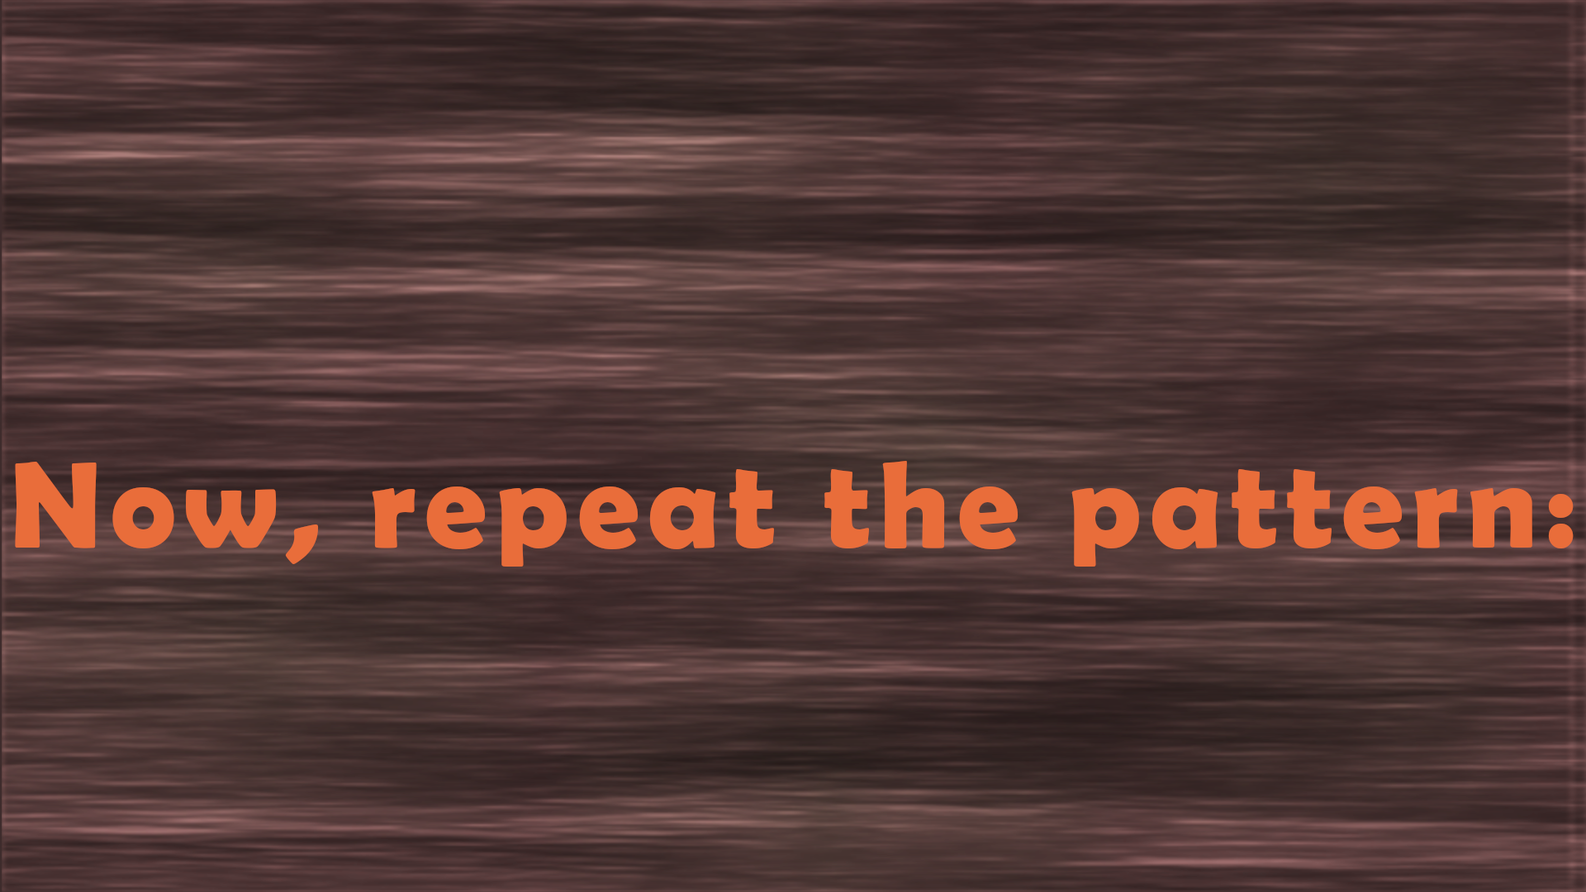
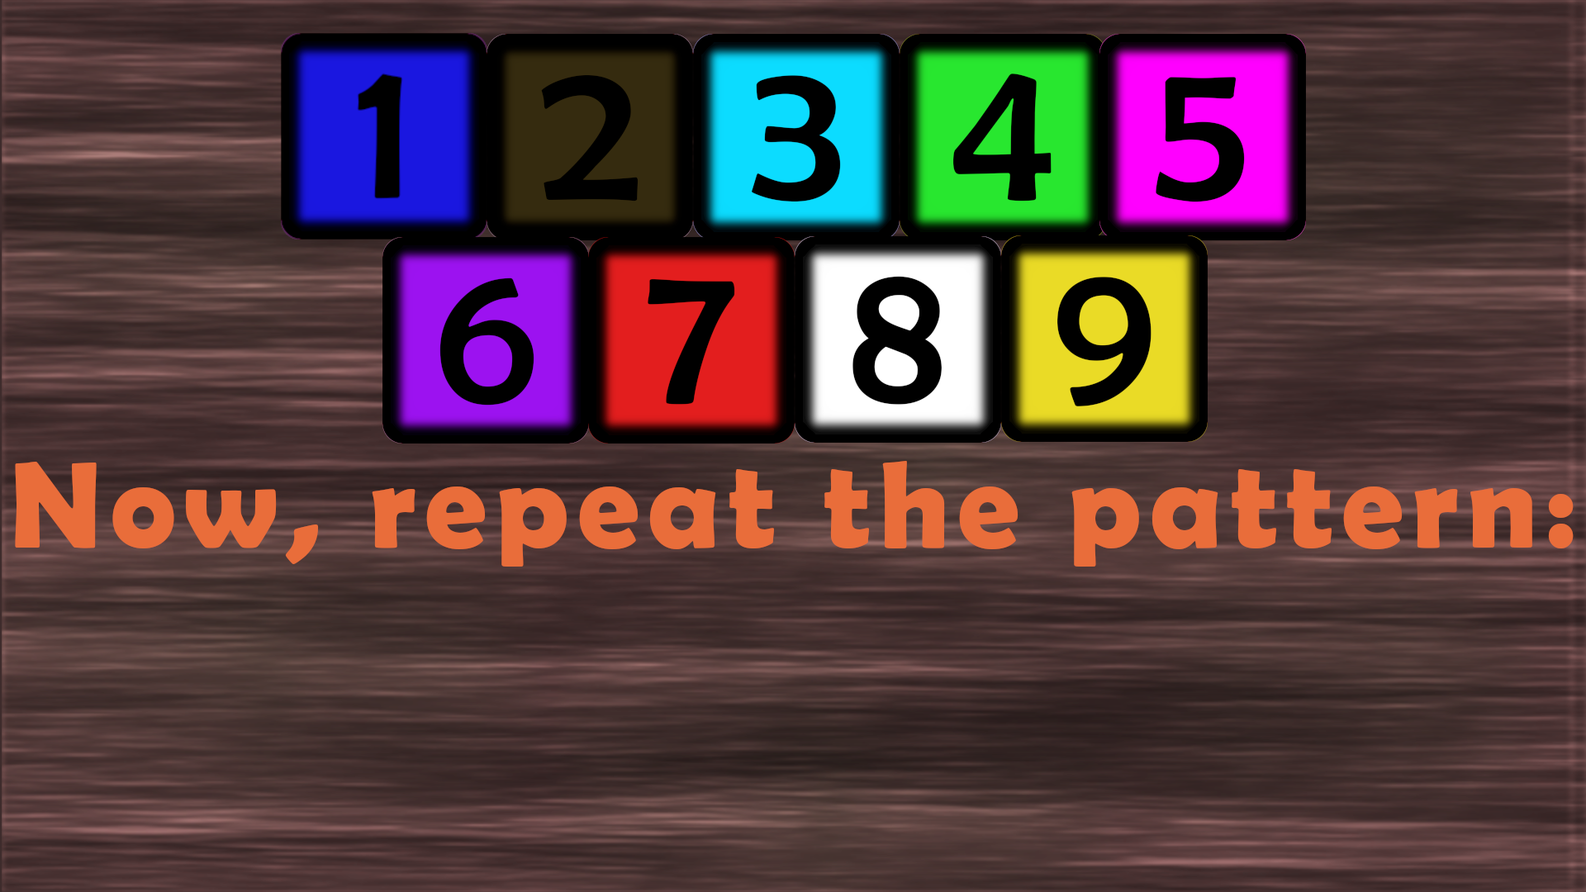
Wprowadzenie instrukcji oraz poprawa wyświetlania Math Mini-Game i Memory Mini-Game

Changed region(s): [[0.1562, 0.0306, 0.8438, 0.5194]]

diff --git a/core/src/com/thechinczyk/game/screens/MiniGame.java b/core/src/com/thechinczyk/game/screens/MiniGame.java
@@ -45,9 +45,9 @@ public class MiniGame {
         cardSprite = spriteInit(cardTexture, 435, -115, 1024,1024);
     }
 
-    public static void displayInstructionHTP(String instruction, DayParkMap map) {
+    public static void displayInstructionHTP(String instruction, DayParkMap map, float scale) {
         cardSprite.draw(spriteBatch);
-        map.gameTextures.font.getData().setScale(0.25f, 0.25f);
+        map.gameTextures.font.getData().setScale(scale, scale);
         map.gameTextures.font.draw(spriteBatch, instruction, 660, 710, 600, Align.center, true);
         map.gameTextures.font.getData().setScale(0.3f, 0.3f);
     }
@@ -129,7 +129,7 @@ public class MiniGame {
                         MiniGame.displayInstructionHTP("In this mini-game, you control rocket. You move horizontal with " +
                                 "LEFT and RIGHT ARROW. Your target is to make moving UFOs, which " +
                                 "are your enemies, disappear, by shooting them with bullets. Use ARROW UP " +
-                                "to shoot. You have 10 seconds to eliminate as many enemies you can.", this.map);
+                                "to shoot. You have 10 seconds to eliminate as many enemies you can.", this.map, 0.25f);
                         this.instructionDisplay = true;
                         if (Gdx.input.isKeyJustPressed(Input.Keys.BACKSPACE)) {
                             this.instructionDisplay = false;
@@ -457,6 +457,7 @@ public class MiniGame {
         private boolean isStarted;
         private boolean isLoaded;
         private boolean isEnding;
+        private boolean instructionDisplay;
 
         MathMiniGameMenu(SpriteBatch batch, DayParkMap map) {
             this.spriteBatch = batch;
@@ -472,12 +473,12 @@ public class MiniGame {
             this.menuTexture = new Texture("MathMiniGame/MainMenuBackground.png");
 
             buttonStartHovered = new Texture("MathMiniGame/ButtonSTARTon.png");
-            buttonStart = new GameObject(buttonStartHovered, Gdx.graphics.getWidth() / 4f, Gdx.graphics.getHeight() / 4f + (600 / (1920 / (Gdx.graphics.getWidth() / 2f))), 400 / (1920 / (Gdx.graphics.getWidth() / 2f)), 200 / (1920 / (Gdx.graphics.getWidth() / 2f)));
-            buttonStartHoveredSprite = spriteInit(this.buttonStartHovered, Gdx.graphics.getWidth() / 4f + (760 / (1920 / (Gdx.graphics.getWidth() / 2f))), Gdx.graphics.getHeight() / 4f + +(289 / (1920 / (Gdx.graphics.getWidth() / 2f))), 400 / (1920 / (Gdx.graphics.getWidth() / 2f)), 200 / (1920 / (Gdx.graphics.getWidth() / 2f)));
+            buttonStart = new GameObject(buttonStartHovered, 860, 412, 200, 100);
+            buttonStartHoveredSprite = spriteInit(this.buttonStartHovered, 860, 414, 200, 100);
 
             buttonHTPHovered = new Texture("MathMiniGame/ButtonHTPon.png");
-            buttonHTP = new GameObject(buttonHTPHovered, Gdx.graphics.getWidth() / 4f, Gdx.graphics.getHeight() / 4f + (800 / (1920 / (Gdx.graphics.getWidth() / 2f))), 400 / (1920 / (Gdx.graphics.getWidth() / 2f)), 200 / (1920 / (Gdx.graphics.getWidth() / 2f)));
-            buttonHTPHoveredSprite = spriteInit(this.buttonHTPHovered, Gdx.graphics.getWidth() / 4f + (760 / (1920 / (Gdx.graphics.getWidth() / 2f))), Gdx.graphics.getHeight() / 4f + (75 / (1920 / (Gdx.graphics.getWidth() / 2f))), 400 / (1920 / (Gdx.graphics.getWidth() / 2f)), 200 / (1920 / (Gdx.graphics.getWidth() / 2f)));
+            buttonHTP = new GameObject(buttonHTPHovered, 860, 307, 200, 100);
+            buttonHTPHoveredSprite = spriteInit(this.buttonHTPHovered, 860, 307, 200, 100);
         }
 
         public void Update() {
@@ -497,8 +498,19 @@ public class MiniGame {
 
                 if (this.isButtonHTPHovered) {
                     buttonHTPHoveredSprite.draw(spriteBatch);
-                    //if (Gdx.input.isKeyJustPressed(Input.Keys.G))
-                    //Wprowadzenie Instrukcji do gry
+                    if (Gdx.input.isKeyJustPressed(Input.Keys.G) || this.instructionDisplay) {
+                        MiniGame.displayInstructionHTP("In this mini-game, you get random mathematical operation. You " +
+                                "have to type exact result, unless you get division - " +
+                                "it is integer division (e.g 5/2 = 2). " +
+                                "You have 15 seconds to solve it, but if you finish earlier, " +
+                                "you can use ENTER to end mini-game. If the answer is correct and " +
+                                "you finished under 10 seconds, your reward will be better.", this.map, 0.25f);
+                        this.instructionDisplay = true;
+                        if (Gdx.input.isKeyJustPressed(Input.Keys.BACKSPACE)) {
+                            this.instructionDisplay = false;
+                            this.isButtonHTPHovered = false;
+                        }
+                    }
 
                 } else if (this.isButtonStartHovered) {
                     buttonStartHoveredSprite.draw(spriteBatch);
@@ -525,7 +537,7 @@ public class MiniGame {
 
         public void Draw() {
             if (!isEnding) {
-                spriteBatch.draw(this.menuTexture, Gdx.graphics.getWidth() / 4f, Gdx.graphics.getHeight() / 4f, Gdx.graphics.getWidth() / 2f, 1080 / (1920 / (Gdx.graphics.getWidth() / 2f)));
+                spriteBatch.draw(this.menuTexture, 480, 270, 960, 540);
                 Update();
             }
             else
@@ -565,14 +577,14 @@ public class MiniGame {
             this.timer = 0;
             this.timeSeconds = 1;
             this.numberCounter = 0;
-            this.operation = random.nextInt(3);
+            this.operation = random.nextInt(4);
             this.number1 = 100 + random.nextInt(1000);
             if (this.operation == 0) {
                 this.number2 = 100 + random.nextInt(1000);
                 this.expectedResult = this.number1 + this.number2;
             }
             else if (this.operation == 1) {
-                this.number2 = random.nextInt(this.number1);
+                this.number2 = 1 + random.nextInt(this.number1-2);
                 this.expectedResult = this.number1 - this.number2;
             }
             else if (this.operation == 2) {
@@ -615,25 +627,25 @@ public class MiniGame {
 
         public void texturesToSprites() {
             if (this.operation == 0)
-                this.signSprite = spriteInit(this.addSign, Gdx.graphics.getWidth() / 2f - SIZE / 2f, Gdx.graphics.getHeight() / 2f + 100 - SIZE / 2f, SIZE, SIZE);
+                this.signSprite = spriteInit(this.addSign, 960 - SIZE / 2f, 640 - SIZE / 2f, SIZE, SIZE);
             else if (this.operation == 1)
-                this.signSprite = spriteInit(this.subSign, Gdx.graphics.getWidth() / 2f - SIZE / 2f, Gdx.graphics.getHeight() / 2f + 100 - SIZE / 2f, SIZE, SIZE);
+                this.signSprite = spriteInit(this.subSign, 960 - SIZE / 2f, 640 - SIZE / 2f, SIZE, SIZE);
             else if (this.operation == 2)
-                this.signSprite = spriteInit(this.mulSign, Gdx.graphics.getWidth() / 2f - SIZE / 2f, Gdx.graphics.getHeight() / 2f + 100 - SIZE / 2f, SIZE, SIZE);
+                this.signSprite = spriteInit(this.mulSign, 960 - SIZE / 2f, 640 - SIZE / 2f, SIZE, SIZE);
             else
-                this.signSprite = spriteInit(this.divSign, Gdx.graphics.getWidth() / 2f - SIZE / 2f, Gdx.graphics.getHeight() / 2f + 100 - SIZE / 2f, SIZE, SIZE);
+                this.signSprite = spriteInit(this.divSign, 960 - SIZE / 2f, 640 - SIZE / 2f, SIZE, SIZE);
 
-            this.eqSignSprite = spriteInit(this.eqSign, Gdx.graphics.getWidth() / 2f - SIZE / 2f, Gdx.graphics.getHeight() / 2f - SIZE / 2f, SIZE, SIZE);
+            this.eqSignSprite = spriteInit(this.eqSign, 960 - SIZE / 2f, 540 - SIZE / 2f, SIZE, SIZE);
 
             for (int i = 0; i < 4; i++) {
-                this.number1Sprite[i] = spriteInit(this.numbers[number1Array[i]], Gdx.graphics.getWidth() / 2f - (4 - i) * (NUMBER_SIZE / 2f + 10) - 50, Gdx.graphics.getHeight() / 2f - SIZE / 2f + 160, NUMBER_SIZE / 2f, NUMBER_SIZE);
-                this.number2Sprite[i] = spriteInit(this.numbers[number2Array[i]], Gdx.graphics.getWidth() / 2f + i * (NUMBER_SIZE / 2f + 10) + 50, Gdx.graphics.getHeight() / 2f - SIZE / 2f + 160, NUMBER_SIZE / 2f, NUMBER_SIZE);
+                this.number1Sprite[i] = spriteInit(this.numbers[number1Array[i]], 960 - (4 - i) * (NUMBER_SIZE / 2f + 10) - 50, 700 - SIZE / 2f, NUMBER_SIZE / 2f, NUMBER_SIZE);
+                this.number2Sprite[i] = spriteInit(this.numbers[number2Array[i]], 960 + i * (NUMBER_SIZE / 2f + 10) + 50, 700 - SIZE / 2f, NUMBER_SIZE / 2f, NUMBER_SIZE);
             }
         }
 
         public void refreshResultSprites() {
             for (int i = 0; i<this.numberCounter; i++) {
-                this.resultSprite[i] = spriteInit(this.numbers[(this.playerResult/(i==0 ? 1 : (int)Math.pow(10,i)))%10], Gdx.graphics.getWidth() / 2f + (2 - i) * (NUMBER_SIZE / 2f + 10) - NUMBER_SIZE/4f, Gdx.graphics.getHeight() / 2f - 160, NUMBER_SIZE / 2f, NUMBER_SIZE);
+                this.resultSprite[i] = spriteInit(this.numbers[(this.playerResult/(i==0 ? 1 : (int)Math.pow(10,i)))%10], 960 + (2 - i) * (NUMBER_SIZE / 2f + 10) - NUMBER_SIZE/4f, 380, NUMBER_SIZE / 2f, NUMBER_SIZE);
             }
         }
 
@@ -647,14 +659,16 @@ public class MiniGame {
         }
 
         public void Draw() {
-            spriteBatch.draw(this.gameTexture, Gdx.graphics.getWidth() / 4f, Gdx.graphics.getHeight() / 4f, Gdx.graphics.getWidth() / 2f, 1080 / (1920 / (Gdx.graphics.getWidth() / 2f)));
+            spriteBatch.draw(this.gameTexture, 480, 270, 960, 540);
             this.Update(Gdx.graphics.getDeltaTime());
-            this.font.draw(this.spriteBatch, Integer.toString(this.timeSeconds), 3*Gdx.graphics.getWidth()/4f - 40, 3*Gdx.graphics.getHeight()/4f - 20);
+            this.font.draw(this.spriteBatch, Integer.toString(this.timeSeconds), 1400, 790);
             this.eqSignSprite.draw(this.spriteBatch);
             this.signSprite.draw(this.spriteBatch);
             for (int i = 0; i<4; i++) {
-                this.number1Sprite[i].draw(this.spriteBatch);
-                this.number2Sprite[i].draw(this.spriteBatch);
+                if (this.number1/Math.pow(10, 3-i) >= 1)
+                    this.number1Sprite[i].draw(this.spriteBatch);
+                if (this.number2/Math.pow(10, 3-i) >= 1)
+                    this.number2Sprite[i].draw(this.spriteBatch);
             }
             for (int i = 0; i<this.numberCounter; i++)
                 this.resultSprite[i].draw(this.spriteBatch);
@@ -667,7 +681,7 @@ public class MiniGame {
                 timeSeconds ++;
             }
 
-            System.out.println(this.playerResult);
+            System.out.println(this.expectedResult + " " + this.playerResult + " " + this.number2/Math.pow(10, 3));
             if (numberCounter < 5) {
                 if ((Gdx.input.isKeyJustPressed(Input.Keys.NUM_1)) || (Gdx.input.isKeyJustPressed(Input.Keys.NUMPAD_1))) {
                     this.playerResult *= 10;
@@ -724,8 +738,7 @@ public class MiniGame {
             }
             refreshResultSprites();
 
-            if (/*this.timeSeconds == 11 */ (Gdx.input.isKeyJustPressed(Input.Keys.ENTER)) || (Gdx.input.isKeyJustPressed(Input.Keys.NUMPAD_ENTER))) {
-                //reset wszystkiego w grze, menu glownym i na planszy
+            if (this.timeSeconds == 16  || (Gdx.input.isKeyJustPressed(Input.Keys.ENTER)) || (Gdx.input.isKeyJustPressed(Input.Keys.NUMPAD_ENTER))) {
                 this.menuMMG.isStarted = false;
                 this.menuMMG.endMenu = new MathMiniGameEndMenu(this.spriteBatch, this.expectedResult == this.playerResult, this.timeSeconds,  this.menuMMG ,this);
                 this.menuMMG.isEnding = true;
@@ -734,7 +747,6 @@ public class MiniGame {
             if ((Gdx.input.isKeyJustPressed(Input.Keys.X))) {
                 menuMMG.resetAfterQuit();
             }
-
         }
     }
 
@@ -768,16 +780,12 @@ public class MiniGame {
                 this.menuTexture = new Texture("MathMiniGame/BackgroundEndGameWrong.png");
 
             buttonEndHovered = new Texture("MathMiniGame/ButtonEXIT_on.png");
-            buttonEnd = new GameObject(buttonEndHovered, Gdx.graphics.getWidth()/4f, Gdx.graphics.getHeight()/4f + (850 / (1920/(Gdx.graphics.getWidth()/2f))), 400 / (1920/(Gdx.graphics.getWidth()/2f)), 200 / (1920/(Gdx.graphics.getWidth()/2f)));
-            buttonEndHoveredSprite = spriteInit(this.buttonEndHovered, Gdx.graphics.getWidth()/4f + (760 / (1920/(Gdx.graphics.getWidth()/2f))), Gdx.graphics.getHeight()/4f + (30 / (1920/(Gdx.graphics.getWidth()/2f))) , 400 / (1920/(Gdx.graphics.getWidth()/2f)), 200 / (1920/(Gdx.graphics.getWidth()/2f)));
+            buttonEnd = new GameObject(buttonEndHovered, 860, 308, 200, 100);
+            buttonEndHoveredSprite = spriteInit(this.buttonEndHovered, 860, 308 , 200, 100);
         }
 
         public void Update() {
-            spriteBatch.draw(this.menuTexture, Gdx.graphics.getWidth()/4f, Gdx.graphics.getHeight()/4f, Gdx.graphics.getWidth()/2f, 1080 / (1920/(Gdx.graphics.getWidth()/2f)));
-            /*if (this.result < 10)
-                this.game.font.draw(this.spriteBatch, Integer.toString(this.result), Gdx.graphics.getWidth()/2f - this.game.rocket.SCALE*20, Gdx.graphics.getHeight()/4f + this.game.rocket.SCALE*180);
-            else
-                this.game.font.draw(this.spriteBatch, Integer.toString(this.result), Gdx.graphics.getWidth()/2f - this.game.rocket.SCALE*30, Gdx.graphics.getHeight()/4f + this.game.rocket.SCALE*180); */
+            spriteBatch.draw(this.menuTexture, 480, 270, 960, 540);
 
             if (Gdx.input.isKeyJustPressed(Input.Keys.X) && !this.isButtonEndHovered) {
                 this.isButtonEndHovered = true;
@@ -820,6 +828,7 @@ public class MiniGame {
         private boolean isStarted;
         private boolean isLoaded;
         private boolean isEnding;
+        private boolean instructionDisplay;
 
         MemoryMiniGameMenu(SpriteBatch batch, DayParkMap map) {
             this.spriteBatch = batch;
@@ -835,12 +844,12 @@ public class MiniGame {
             this.menuTexture = new Texture("MemoryMiniGame/MainMenuBackground.png");
 
             buttonStartHovered = new Texture("MemoryMiniGame/ButtonSTARTon.png");
-            buttonStart = new GameObject(buttonStartHovered, Gdx.graphics.getWidth() / 4f, Gdx.graphics.getHeight() / 4f + (600 / (1920 / (Gdx.graphics.getWidth() / 2f))), 400 / (1920 / (Gdx.graphics.getWidth() / 2f)), 200 / (1920 / (Gdx.graphics.getWidth() / 2f)));
-            buttonStartHoveredSprite = spriteInit(this.buttonStartHovered, Gdx.graphics.getWidth() / 4f + (760 / (1920 / (Gdx.graphics.getWidth() / 2f))), Gdx.graphics.getHeight() / 4f + (257 / (1920 / (Gdx.graphics.getWidth() / 2f))), 400 / (1920 / (Gdx.graphics.getWidth() / 2f)), 200 / (1920 / (Gdx.graphics.getWidth() / 2f)));
+            buttonStart = new GameObject(buttonStartHovered, 860, 398, 200, 100);
+            buttonStartHoveredSprite = spriteInit(this.buttonStartHovered, 860, 398, 200, 100);
 
             buttonHTPHovered = new Texture("MemoryMiniGame/ButtonHTPon.png");
-            buttonHTP = new GameObject(buttonHTPHovered, Gdx.graphics.getWidth() / 4f, Gdx.graphics.getHeight() / 4f + (800 / (1920 / (Gdx.graphics.getWidth() / 2f))), 400 / (1920 / (Gdx.graphics.getWidth() / 2f)), 200 / (1920 / (Gdx.graphics.getWidth() / 2f)));
-            buttonHTPHoveredSprite = spriteInit(this.buttonHTPHovered, Gdx.graphics.getWidth() / 4f + (760 / (1920 / (Gdx.graphics.getWidth() / 2f))), Gdx.graphics.getHeight() / 4f + (40 / (1920 / (Gdx.graphics.getWidth() / 2f))), 400 / (1920 / (Gdx.graphics.getWidth() / 2f)), 200 / (1920 / (Gdx.graphics.getWidth() / 2f)));
+            buttonHTP = new GameObject(buttonHTPHovered, 860, 290, 200, 100);
+            buttonHTPHoveredSprite = spriteInit(this.buttonHTPHovered, 860, 290, 200, 100);
         }
 
         public void Update() {
@@ -860,8 +869,18 @@ public class MiniGame {
 
                 if (this.isButtonHTPHovered) {
                     buttonHTPHoveredSprite.draw(spriteBatch);
-                    //if (Gdx.input.isKeyJustPressed(Input.Keys.G))
-                    //Wprowadzenie Instrukcji do gry
+                    if (Gdx.input.isKeyJustPressed(Input.Keys.G) || this.instructionDisplay) {
+                        MiniGame.displayInstructionHTP("In this mini-game, you will be shown path of four colors. You have " +
+                                "seconds to remember it, and then, you have 10 seconds to repeat " +
+                                "this path by using NUMBER KEYS and BACKSPACE. If the answer is " +
+                                "correct and you finished in under 7 seconds, " +
+                                "your reward will be better.", this.map, 0.25f);
+                        this.instructionDisplay = true;
+                        if (Gdx.input.isKeyJustPressed(Input.Keys.BACKSPACE)) {
+                            this.instructionDisplay = false;
+                            this.isButtonHTPHovered = false;
+                        }
+                    }
 
                 } else if (this.isButtonStartHovered) {
                     buttonStartHoveredSprite.draw(spriteBatch);
@@ -888,7 +907,7 @@ public class MiniGame {
 
         public void Draw() {
             if (!isEnding) {
-                spriteBatch.draw(this.menuTexture, Gdx.graphics.getWidth() / 4f, Gdx.graphics.getHeight() / 4f, Gdx.graphics.getWidth() / 2f, 1080 / (1920 / (Gdx.graphics.getWidth() / 2f)));
+                spriteBatch.draw(this.menuTexture, 480, 270, 960, 540);
                 Update();
             }
             else
@@ -911,7 +930,7 @@ public class MiniGame {
 
         private GameObject[][] colorsBoxGameObjects;
         private Sprite[][] colorsBoxSprites;
-        private Texture[] colors;
+        private Texture[] colors, colorsWithNumbers;
         private Texture emptyColor;
         private Sprite signSprite, eqSignSprite;
         private Sprite[] chooseColor, gameColors;
@@ -957,12 +976,12 @@ public class MiniGame {
 
         public void texturesToSprites() {
             for (int i = 0; i < 4; i++) {
-                this.gameColors[i] = spriteInit(this.colors[this.generatedNumbers[i]], Gdx.graphics.getWidth() / 2f - (1 - i) * (SIZE+OFFSET) - SIZE - OFFSET/2f, Gdx.graphics.getHeight() / 2f - 3*SIZE/2f, SIZE, SIZE);
+                this.gameColors[i] = spriteInit(this.colors[this.generatedNumbers[i]], 960 - (1 - i) * (SIZE+OFFSET) - SIZE - OFFSET/2f, 540 - 3*SIZE/2f, SIZE, SIZE);
             }
             for (int w = 0; w<3; w++) {
                 for (int k = 0; k<3; k++) {
-                    this.colorsBoxSprites[w][k] = spriteInit(this.colors[w*3 + k], Gdx.graphics.getWidth() / 2f - (1-k) * BOX_SIZE - BOX_SIZE/2f,3*(Gdx.graphics.getHeight() / 4f) - w * BOX_SIZE - 60, BOX_SIZE, BOX_SIZE);
-                    this.colorsBoxGameObjects[w][k] = new GameObject(this.colors[w*3 + k], Gdx.graphics.getWidth() / 2f - (1-k) * BOX_SIZE - BOX_SIZE/2f,3*(Gdx.graphics.getHeight() / 4f) - w * BOX_SIZE - 60, BOX_SIZE, BOX_SIZE);
+                    this.colorsBoxSprites[w][k] = spriteInit(this.colors[w*3 + k], 960 - (1-k) * BOX_SIZE - BOX_SIZE/2f,810 - w * BOX_SIZE - 60, BOX_SIZE, BOX_SIZE);
+                    this.colorsBoxGameObjects[w][k] = new GameObject(this.colors[w*3 + k], 960 - (1-k) * BOX_SIZE - BOX_SIZE/2f,810 - w * BOX_SIZE - 60, BOX_SIZE, BOX_SIZE);
                 }
             }
         }
@@ -970,31 +989,22 @@ public class MiniGame {
 
          public void refreshResultSprite(int color) {
             if (color == -1)
-                this.gameColors[this.numberCounter] = spriteInit(this.emptyColor, Gdx.graphics.getWidth() / 2f - (1 - this.numberCounter) * (SIZE+OFFSET) - SIZE - OFFSET/2f, Gdx.graphics.getHeight() / 2f - 3*SIZE/2f, SIZE, SIZE);
+                this.gameColors[this.numberCounter] = spriteInit(this.emptyColor, 960 - (1 - this.numberCounter) * (SIZE+OFFSET) - SIZE - OFFSET/2f, 540 - 3*SIZE/2f, SIZE, SIZE);
             else
-                this.gameColors[this.numberCounter] = spriteInit(this.colors[color], Gdx.graphics.getWidth() / 2f - (1 - this.numberCounter) * (SIZE+OFFSET) - SIZE - OFFSET/2f, Gdx.graphics.getHeight() / 2f - 3*SIZE/2f, SIZE, SIZE);
+                this.gameColors[this.numberCounter] = spriteInit(this.colors[color], 960 - (1 - this.numberCounter) * (SIZE+OFFSET) - SIZE - OFFSET/2f, 540 - 3*SIZE/2f, SIZE, SIZE);
 
              this.playerNumbers[this.numberCounter] = color;
         }
 
-        public void displayColorBox() {
-            for (int w = 0; w<3; w++) {
-                for (int k = 0; k<3; k++) {
-                    this.colorsBoxSprites[w][k].draw(this.spriteBatch);
-                }
-            }
-        }
-
         public void Draw() {
             if (timeSeconds < 5)
-                spriteBatch.draw(this.gameTexture1, Gdx.graphics.getWidth() / 4f, Gdx.graphics.getHeight() / 4f, Gdx.graphics.getWidth() / 2f, 1080 / (1920 / (Gdx.graphics.getWidth() / 2f)));
-            else {
-                spriteBatch.draw(this.gameTexture2, Gdx.graphics.getWidth() / 4f, Gdx.graphics.getHeight() / 4f, Gdx.graphics.getWidth() / 2f, 1080 / (1920 / (Gdx.graphics.getWidth() / 2f)));
-                displayColorBox();
-            }
+                spriteBatch.draw(this.gameTexture1, 480, 270, 960, 540);
+            else
+                spriteBatch.draw(this.gameTexture2, 480, 270, 960, 540);
+
 
             this.Update(Gdx.graphics.getDeltaTime());
-            this.font.draw(this.spriteBatch, Integer.toString(this.timeSeconds), 3 * Gdx.graphics.getWidth() / 4f - 40, 3 * Gdx.graphics.getHeight() / 4f - 20);
+            this.font.draw(this.spriteBatch, Integer.toString(this.timeSeconds), 1400, 790);
             for (int i = 0; i < 4; i++) {
                 this.gameColors[i].draw(this.spriteBatch);
             }
@@ -1007,11 +1017,9 @@ public class MiniGame {
                 timeSeconds ++;
                 if (timeSeconds == 5) {
                     for (int i = 0; i<4; i++)
-                        this.gameColors[i] = spriteInit(this.emptyColor, Gdx.graphics.getWidth() / 2f - (1 - i) * (SIZE+OFFSET) - SIZE - OFFSET/2f, Gdx.graphics.getHeight() / 2f - 3*SIZE/2f, SIZE, SIZE);
+                        this.gameColors[i] = spriteInit(this.emptyColor, 960 - (1 - i) * (SIZE+OFFSET) - SIZE - OFFSET/2f, 540 - 3*SIZE/2f, SIZE, SIZE);
                 }
             }
-
-            System.out.println(this.numberCounter);
 
             if (numberCounter < 4 && timeSeconds >= 5) {
                 if ((Gdx.input.isKeyJustPressed(Input.Keys.NUM_1)) || (Gdx.input.isKeyJustPressed(Input.Keys.NUMPAD_1))) {
@@ -1055,8 +1063,7 @@ public class MiniGame {
                 refreshResultSprite(-1);
             }
 
-            if (/*this.timeSeconds == 11 */ (Gdx.input.isKeyJustPressed(Input.Keys.ENTER)) || (Gdx.input.isKeyJustPressed(Input.Keys.NUMPAD_ENTER))) {
-                //reset wszystkiego w grze, menu glownym i na planszy
+            if (this.timeSeconds == 16 || (Gdx.input.isKeyJustPressed(Input.Keys.ENTER)) || (Gdx.input.isKeyJustPressed(Input.Keys.NUMPAD_ENTER))) {
                 boolean check = true;
                 for (int i = 0; i<4; i++) {
                     if (this.playerNumbers[i]!=this.generatedNumbers[i]) {
@@ -1068,11 +1075,6 @@ public class MiniGame {
                 this.menuMemory.endMenu = new MemoryMiniGameEndMenu(this.spriteBatch, check,  this.menuMemory,this);
                 this.menuMemory.isEnding = true;
             }
-
-            if ((Gdx.input.isKeyJustPressed(Input.Keys.X))) {
-                menuMemory.resetAfterQuit();
-            }
-
         }
     }
 
@@ -1104,12 +1106,12 @@ public class MiniGame {
                 this.menuTexture = new Texture("MemoryMiniGame/BackgroundEndGameWrong.png");
 
             buttonEndHovered = new Texture("MemoryMiniGame/ButtonEXITon.png");
-            buttonEnd = new GameObject(buttonEndHovered, Gdx.graphics.getWidth()/4f, Gdx.graphics.getHeight()/4f + (850 / (1920/(Gdx.graphics.getWidth()/2f))), 400 / (1920/(Gdx.graphics.getWidth()/2f)), 200 / (1920/(Gdx.graphics.getWidth()/2f)));
-            buttonEndHoveredSprite = spriteInit(this.buttonEndHovered, Gdx.graphics.getWidth()/4f + (760 / (1920/(Gdx.graphics.getWidth()/2f))), Gdx.graphics.getHeight()/4f + (38 / (1920/(Gdx.graphics.getWidth()/2f))) , 400 / (1920/(Gdx.graphics.getWidth()/2f)), 200 / (1920/(Gdx.graphics.getWidth()/2f)));
+            buttonEnd = new GameObject(buttonEndHovered, 860, 289, 200, 100);
+            buttonEndHoveredSprite = spriteInit(this.buttonEndHovered, 860, 289 , 200, 100);
         }
 
         public void Update() {
-            spriteBatch.draw(this.menuTexture, Gdx.graphics.getWidth()/4f, Gdx.graphics.getHeight()/4f, Gdx.graphics.getWidth()/2f, 1080 / (1920/(Gdx.graphics.getWidth()/2f)));
+            spriteBatch.draw(this.menuTexture, 480, 270, 960, 540);
 
             if (Gdx.input.isKeyJustPressed(Input.Keys.X) && !this.isButtonEndHovered) {
                 this.isButtonEndHovered = true;
